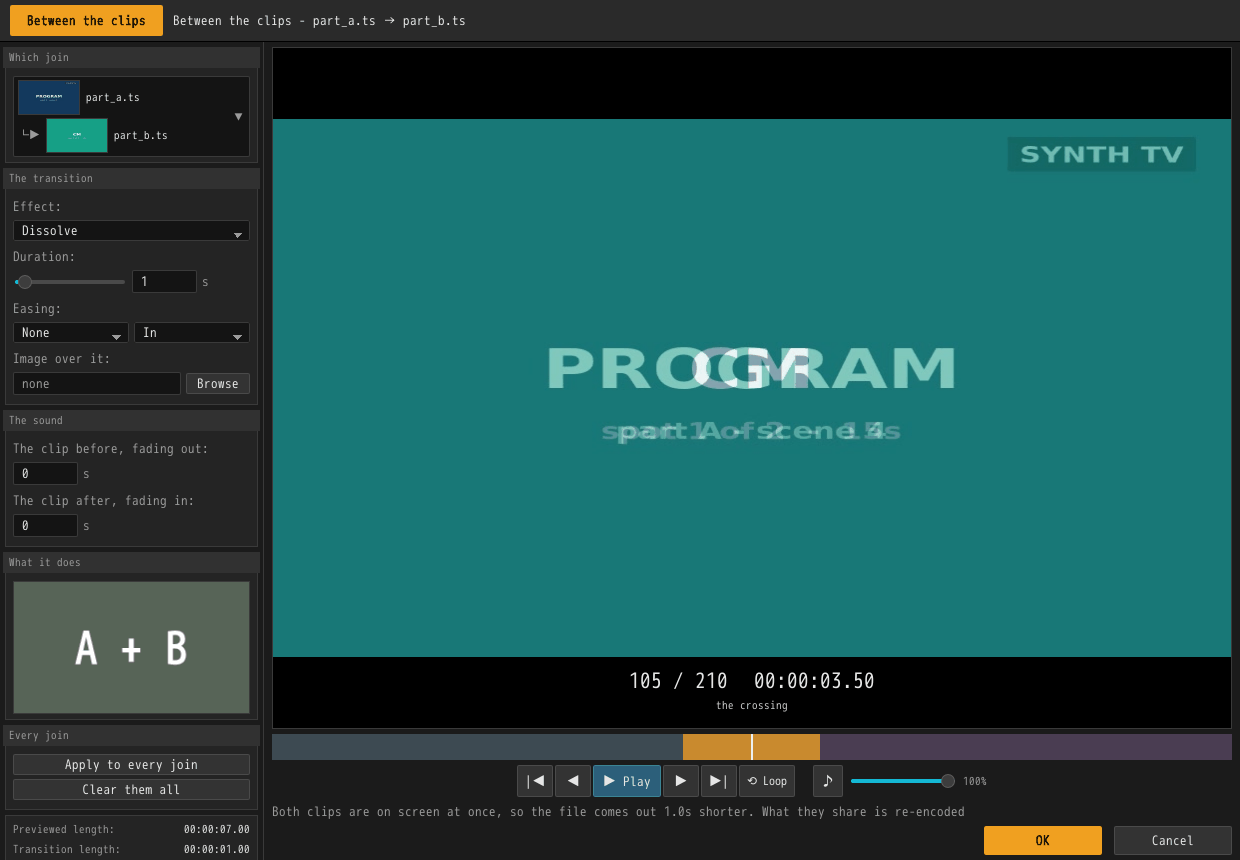
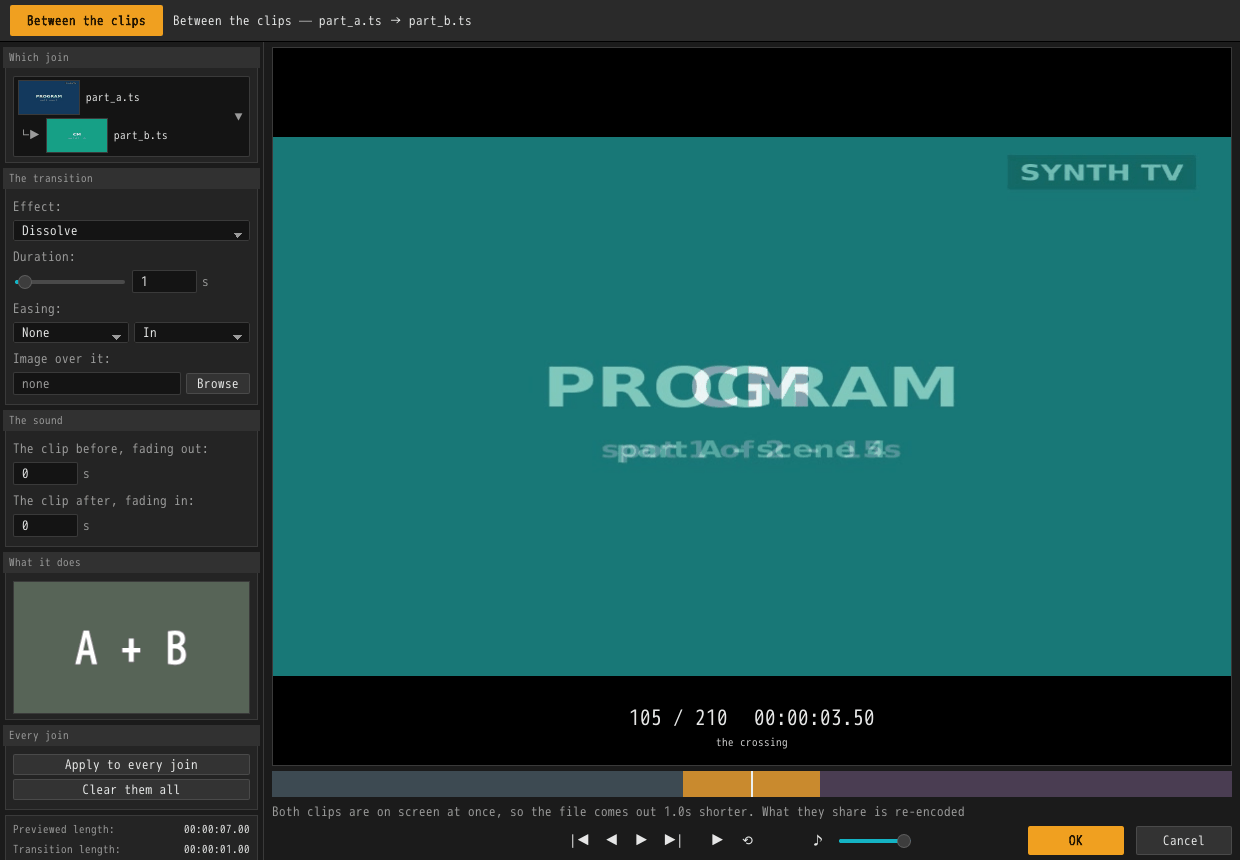
Docs and pictures for 0.8.21
The seam window's playback controls and keys, and its new picture; the
track the editor and the seam window play, and the track the waveform
and the silence detection read; the crawl in the preview; how the seek
index cache counts the list against its limits; the version in the
download tables.

diff --git a/docs/user-guide/gui.md b/docs/user-guide/gui.md
@@ -296,6 +296,11 @@ bars. It can be changed with the editor open; while playing, the change is
 heard about a second later. A fold asked for by the output settings is heard
 the same way.
 
+Where a recording has more than one sound track, the editor plays the first of
+the tracks being written: the one a player starts on when it opens the output.
+A track switched off in **Tracks** is not heard, and with every track off there
+is no sound and the volume controls are greyed out.
+
 **Picking anything but the default writes that track afresh** —
 nothing else can change the channel count, since copying and smart rendering
 both carry the recording's own frames. A note beside the choice says so. It is
@@ -630,6 +635,9 @@ foot of the waveform, so a commercial junction's quiet shows before anything has
 been detected: a quick way to find roughly where to start stepping with the
 meter.
 
+On a recording with more than one sound track, the waveform and the silence
+detection both read the first track, whether or not it is switched off in **Tracks**.
+
 ### Looking closely
 
 ![The magnifier](../images/usage-zoom.png)
@@ -674,6 +682,9 @@ commercial break, are not things the picture alone will tell you.
   carries a sentence onto the next line, the brackets a speaker's name sits in, the
   `ü` in a German line — are drawn from those dots, in the cell a character would
   have taken.
+- A broadcast's **crawl** can be chosen the same way. It is sent with no time of its
+  own, so it is shown at the picture it arrived with, which can put it a second or
+  so off.
 - A disc's subtitles — **PGS** and a DVD's **subpictures** — are pictures, and what
   the disc drew is what is put on screen.
 - Where a recording carries more than one (a bilingual broadcast, Japanese and English
@@ -1234,20 +1245,31 @@ with their sound. Like the cut editor, it is left with OK or Cancel.
 #### The preview
 
 Three seconds either side of the join, **composited the way the output will
-composite them**. Drag the scrubber and the picture follows; `▶ Play` runs it
-in real time with its sound. The bar under it is in three parts: the clip
+composite them**. Drag the scrubber and the picture follows; `▶` (play) runs
+it in real time with its sound. The bar under it is in three parts: the clip
 before on the left, the clip after on the right, and the coloured stretch
 between them is what the effect covers. With `None` chosen that stretch is a
 single line, because a cut takes no time.
 
-What you hear is what the output will carry: the two clips are not mixed
-(see below).
+The playback controls sit in the middle of the bottom row, the row with OK:
 
-`⟲ Loop` starts again from the top when it reaches the end. A crossing is a
+| Button | Key | |
+|---|---|---|
+| `\|◀` `▶\|` | Home / End | To the start / the end |
+| `◀` `▶` | ← / → | Back / on one frame; hold to keep stepping |
+| `▶` | Space | Play and stop |
+| `⟲` | | Loop (below) |
+| `♪` | M | Mute |
+
+What you hear is what the output will carry. Where there is more than one sound
+track, it is the one the joined file starts on, and a clip with no track in that
+place is silent. The two clips are not mixed (see below).
+
+`⟲` (loop) starts again from the top when it reaches the end. A crossing is a
 second or two, and it gets watched over and over.
 
-**The length of the file depends on which kind you pick**, and the line under
-the buttons says which you are getting:
+**The length of the file depends on which kind you pick**, and the line above
+OK says which you are getting:
 
 - A **fade** takes half its time from the clip before and half from the clip
   after, so the file is as long as it would have been without one.
@@ -1289,7 +1311,7 @@ changes no length.
 frames through, and there is nothing in them to rewrite — set **Audio** on the
 output screen to smart rendering (the default) or to a whole re-encode.
 
-**The preview carries it.** Press `▶ Play` and the sound goes down and comes
+**The preview carries it.** Press `▶` and the sound goes down and comes
 back on the same curve the file is written with — how many seconds is right
 is not a thing anybody can settle by reading, which is the argument this whole
 window is built on.

diff --git a/docs/technical/distribution.md b/docs/technical/distribution.md
@@ -99,7 +99,7 @@ make things *more* fragile across environments, so the exclusion stays. What is 
 can be checked by extracting:
 
 ```bash
-./SmartCut_0.8.20_amd64.AppImage --appimage-extract >/dev/null
+./SmartCut_0.8.21_amd64.AppImage --appimage-extract >/dev/null
 ldd squashfs-root/usr/bin/smartcut | grep -E 'asound|jack|pulse'
 # libasound.so.2 / libjack.so.0 -> /lib/x86_64-linux-gnu/...   (system)
 # libpulse.so.0                 -> squashfs-root/usr/bin/../lib/...  (bundled)
@@ -130,8 +130,8 @@ runtime, and `appdir-lint.sh` finds no fatal issues.
 
 ```bash
 JAMMY=/path/to/root gui/jammy/build.sh   # AppImage, tar.gz and deb (Ubuntu 22.04 root)
-# -> gui/src-tauri/target/release/bundle/linux/SmartCut-0.8.20-linux-x86_64.tar.gz
-# -> gui/src-tauri/target/release/bundle/linux/smartcut_0.8.20_amd64.deb
+# -> gui/src-tauri/target/release/bundle/linux/SmartCut-0.8.21-linux-x86_64.tar.gz
+# -> gui/src-tauri/target/release/bundle/linux/smartcut_0.8.21_amd64.deb
 ```
 
 One build of SmartCut, packed two ways. Both install **the GUI as `smartcut` and the
@@ -142,13 +142,13 @@ The cargo crate is named `gui`, so left alone Tauri installs it straight to
 `/usr/bin/gui` — not a name anyone should be occupying. `mainBinaryName` in
 `tauri.conf.json` pins it to `smartcut` (since 0.2.0; before that it was set for Windows
 only). The bundle *files* Tauri writes are named after `productName` instead —
-`SmartCut_0.8.20_amd64.deb` and the like — which is why they and the deb's package name
+`SmartCut_0.8.21_amd64.deb` and the like — which is why they and the deb's package name
 `smartcut` differ. `build-linux.sh` reads both out of `tauri.conf.json`.
 
 | Artifact | Size | FFmpeg | Requires |
 |---|---|---|---|
-| `SmartCut-0.8.20-linux-x86_64.tar.gz` | 192.6 MB | Bundled | glibc 2.35 or newer. No FUSE needed |
-| `smartcut_0.8.20_amd64.deb` | 29.2 MB | Bundled (`/usr/lib/smartcut`) | Ubuntu 22.04 or later, Debian 13 or later |
+| `SmartCut-0.8.21-linux-x86_64.tar.gz` | 192.6 MB | Bundled | glibc 2.35 or newer. No FUSE needed |
+| `smartcut_0.8.21_amd64.deb` | 29.2 MB | Bundled (`/usr/lib/smartcut`) | Ubuntu 22.04 or later, Debian 13 or later |
 
 **The tar.gz contains the same AppDir as the AppImage, extracted.** The 633 libraries
 linuxdeploy gathered by following `ldd` sit in `app/` as they are, `./smartcut` is a
@@ -219,7 +219,7 @@ binary comes from Tauri's deb, and the tar.gz's from the AppDir.
 
 ### What was verified
 
-- On a bare Ubuntu 22.04 (ubuntu-base 22.04.5), `apt install ./smartcut_0.8.20_amd64.deb`
+- On a bare Ubuntu 22.04 (ubuntu-base 22.04.5), `apt install ./smartcut_0.8.21_amd64.deb`
   installs it: every dependency resolves, neither binary has a library it cannot find,
   and `smartcut-cli` loads `/usr/lib/smartcut/libavcodec.so.61`.
 - A 30-second cut of a broadcast recording made there matches the tar.gz's
@@ -234,7 +234,7 @@ Cross-built from the Linux development VM to `x86_64-pc-windows-msvc`.
 
 ```bash
 ./gui/build-windows.sh
-# -> gui/src-tauri/target/x86_64-pc-windows-msvc/release/bundle/nsis/SmartCut_0.8.20_x64-setup.exe
+# -> gui/src-tauri/target/x86_64-pc-windows-msvc/release/bundle/nsis/SmartCut_0.8.21_x64-setup.exe
 # -> gui/src-tauri/target/x86_64-pc-windows-msvc/release/bundle/portable/smartcut-portable-x64.zip
 ```
 

diff --git a/README.ja.md b/README.ja.md
@@ -137,11 +137,11 @@ CM 自動検出で決めた 5 区間・22 分の書き出しでは、**40589 フ
 
 | プラットフォーム | ファイル | 備考 |
 |---|---|---|
-| **Linux** | `SmartCut_0.8.20_amd64.AppImage` | 実行権限を付けて起動します |
-| **Linux** | `SmartCut-0.8.20-linux-x86_64.tar.gz` | 展開して `./smartcut` を実行します。FUSE を使いたくない場合はこちらです |
-| **Linux (Debian/Ubuntu)** | `smartcut_0.8.20_amd64.deb` | `sudo apt install ./smartcut_0.8.20_amd64.deb`。GTK や WebKitGTK はシステムのものを使うので 29.2 MB で済みます |
-| **Windows** | `SmartCut_0.8.20_x64-setup.exe` | インストーラ。コマンドライン版の `smartcut-cli.exe` も同じフォルダーに入ります |
-| **Windows** | `smartcut-portable-x64-0.8.20.zip` | 展開して `smartcut.exe` を実行します。コマンドライン版は `smartcut-cli.exe` です |
+| **Linux** | `SmartCut_0.8.21_amd64.AppImage` | 実行権限を付けて起動します |
+| **Linux** | `SmartCut-0.8.21-linux-x86_64.tar.gz` | 展開して `./smartcut` を実行します。FUSE を使いたくない場合はこちらです |
+| **Linux (Debian/Ubuntu)** | `smartcut_0.8.21_amd64.deb` | `sudo apt install ./smartcut_0.8.21_amd64.deb`。GTK や WebKitGTK はシステムのものを使うので 29.2 MB で済みます |
+| **Windows** | `SmartCut_0.8.21_x64-setup.exe` | インストーラ。コマンドライン版の `smartcut-cli.exe` も同じフォルダーに入ります |
+| **Windows** | `smartcut-portable-x64-0.8.21.zip` | 展開して `smartcut.exe` を実行します。コマンドライン版は `smartcut-cli.exe` です |
 
 **動作条件。** AppImage と tar.gz には glibc 2.35 以降が必要です（Ubuntu 22.04、
 Debian 12、Fedora 36 以降）。deb は Ubuntu 22.04 以降と Debian 13 以降で

diff --git a/README.md b/README.md
@@ -144,11 +144,11 @@ Every build bundles FFmpeg, so there is nothing else to install.
 
 | Platform | File | Notes |
 |---|---|---|
-| **Linux** | `SmartCut_0.8.20_amd64.AppImage` | Make it executable and run it |
-| **Linux** | `SmartCut-0.8.20-linux-x86_64.tar.gz` | Unpack and run `./smartcut`. Use this if you would rather not deal with FUSE |
-| **Linux (Debian/Ubuntu)** | `smartcut_0.8.20_amd64.deb` | `sudo apt install ./smartcut_0.8.20_amd64.deb`. 29.2 MB, because GTK and WebKitGTK come from your system |
-| **Windows** | `SmartCut_0.8.20_x64-setup.exe` | Installer. The command-line tool, `smartcut-cli.exe`, goes into the same folder |
-| **Windows** | `smartcut-portable-x64-0.8.20.zip` | Unzip and run `smartcut.exe`. The command-line tool is `smartcut-cli.exe` |
+| **Linux** | `SmartCut_0.8.21_amd64.AppImage` | Make it executable and run it |
+| **Linux** | `SmartCut-0.8.21-linux-x86_64.tar.gz` | Unpack and run `./smartcut`. Use this if you would rather not deal with FUSE |
+| **Linux (Debian/Ubuntu)** | `smartcut_0.8.21_amd64.deb` | `sudo apt install ./smartcut_0.8.21_amd64.deb`. 29.2 MB, because GTK and WebKitGTK come from your system |
+| **Windows** | `SmartCut_0.8.21_x64-setup.exe` | Installer. The command-line tool, `smartcut-cli.exe`, goes into the same folder |
+| **Windows** | `smartcut-portable-x64-0.8.21.zip` | Unzip and run `smartcut.exe`. The command-line tool is `smartcut-cli.exe` |
 
 **Requirements.** The AppImage and the tar.gz need glibc 2.35 or newer, which
 means Ubuntu 22.04, Debian 12, Fedora 36 or later. The `.deb` is for Ubuntu 22.04

diff --git a/docs/technical/design.md b/docs/technical/design.md
@@ -2078,7 +2078,10 @@ indexed from the top down, so with thirty-odd hour-long recordings in it the top
 were deleted while the rows were still there, and each took half a minute to read again when it
 was opened for cutting. The GUI remembers every recording the list has held in the session —
 told by `list_rows` as rows arrive, so a row still waiting its turn counts — and hands their
-indexes to `prune` to spare.
+indexes to `prune` to spare. They still count towards both limits (0.8.21): counted only where
+they fell in the newest-first order, an old one left room for a full 32 files and 2 GB of others
+on top of it, and the cache could reach nearly twice its size. What is over now comes off the
+recordings the list has not held.
 
 ### Byte offsets — taking the guesswork out of seeking
 

diff --git a/docs/technical/joining.md b/docs/technical/joining.md
@@ -425,7 +425,7 @@ hold the two answers together.
 |---|---|---|
 | Composited into | the preview's own size, `yuv420p` | the master clip's shape |
 | Scaler | `FAST_BILINEAR` — a picture is looked at once and dropped | `BICUBIC` — it is paid for the length of the reel |
-| Sound | the two clips in turn to one output device (`play_audio_across`) | the same order, written |
+| Sound | the two clips in turn to one output device (`play_audio_across`), each on the track in the place the master's first kept track holds (`heard_nth`) | the same order and the same track (`Threads`), written |
 
 The composite is done in studio-range `yuv420p` and the conversion to JPEG
 comes after it. The other way round, the studio black `Shade::yuv` gives
